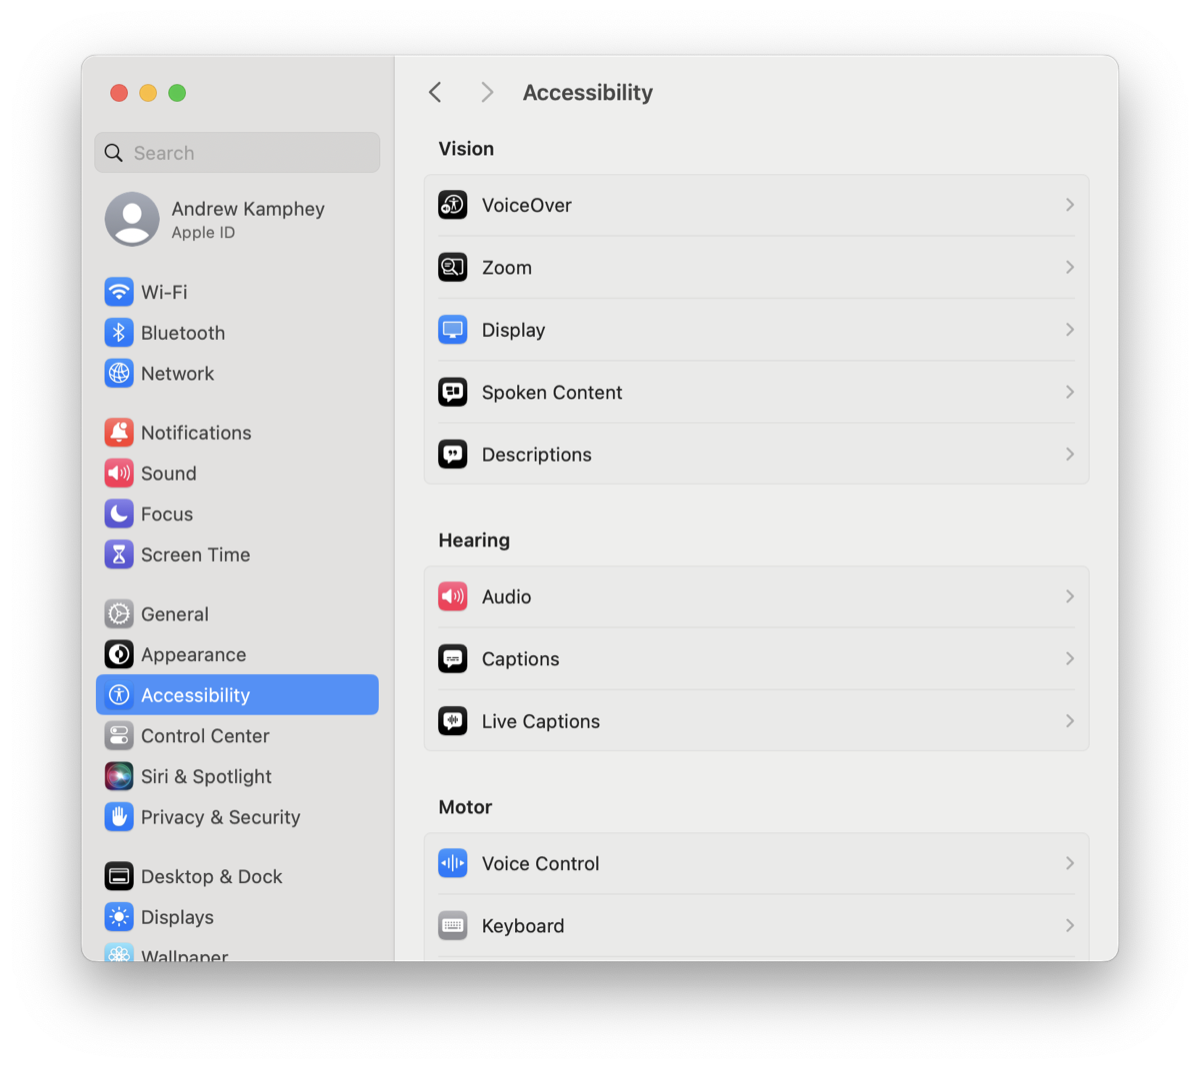
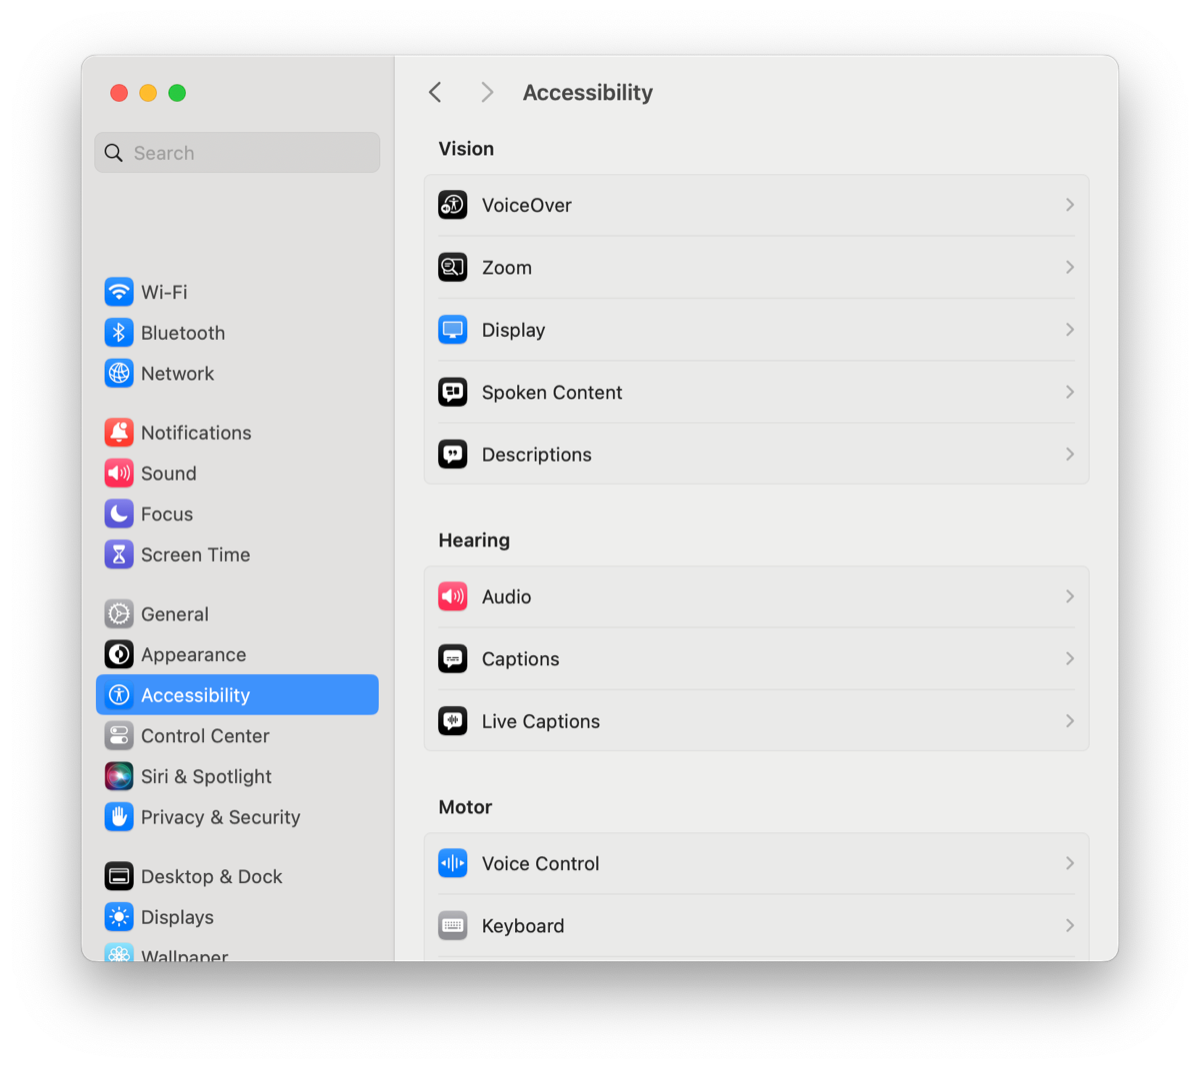
Guides: all screenshots in; remove name from captures; match Colors-window wording

diff --git a/site/guides/change-cursor-color-mac.html b/site/guides/change-cursor-color-mac.html
@@ -59,22 +59,22 @@
 <h2 id="fill">How to change the cursor fill color</h2>
 <ol class="steps">
 <li><h3>Click the Pointer fill color well</h3><p>It's the color swatch next to <b>Pointer fill color</b>.</p><figure class="shot">
-  <img src="/assets/guides/fill-well.png" alt="Pointer fill color well clicked, showing color choices" loading="lazy" onerror="this.parentNode.classList.add('missing')">
-  <div class="todo"><b>Screenshot: fill-well.png</b>The Pointer fill color well clicked, with the color choices showing.</div>
+  <img src="/assets/guides/fill-well.png" alt="The Colors window open for Pointer fill color" loading="lazy" onerror="this.parentNode.classList.add('missing')">
+  <div class="todo"><b>Screenshot: fill-well.png</b>The Pointer fill color well clicked, with the Colors window open.</div>
 </figure></li>
-<li><h3>Pick a color</h3><p>Choose a swatch, or open the full Colors window to choose any color. The pointer updates right away.</p><figure class="shot">
-  <img src="/assets/guides/fill-after.png" alt="Mac pointer with a custom fill color" loading="lazy" onerror="this.parentNode.classList.add('missing')">
-  <div class="todo"><b>Screenshot: fill-after.png</b>The pointer with a bright fill (for example yellow) over a window. Take it as a frame from a screen recording.</div>
+<li><h3>Pick a color in the Colors window</h3><p>A Colors window opens. Click a color on the wheel and drag the slider below it to set how dark it is. The pointer updates right away; close the window when you're done.</p><figure class="shot">
+  <img src="/assets/guides/fill-after.png" alt="Yellow Mac pointer next to the yellow Pointer fill color setting" loading="lazy" onerror="this.parentNode.classList.add('missing')">
+  <div class="todo"><b>Screenshot: fill-after.png</b>The pointer with a bright fill (for example yellow). Frame from a screen recording.</div>
 </figure></li>
 </ol>
 
 <h2 id="outline">How to change the cursor outline color</h2>
 <ol class="steps">
 <li><h3>Click the Pointer outline color well</h3><p>It's the swatch next to <b>Pointer outline color</b>.</p><figure class="shot">
-  <img src="/assets/guides/outline-well.png" alt="Pointer outline color well clicked, showing color choices" loading="lazy" onerror="this.parentNode.classList.add('missing')">
-  <div class="todo"><b>Screenshot: outline-well.png</b>The Pointer outline color well clicked, with the color choices showing.</div>
+  <img src="/assets/guides/outline-well.png" alt="The Colors window open for Pointer outline color, set to magenta" loading="lazy" onerror="this.parentNode.classList.add('missing')">
+  <div class="todo"><b>Screenshot: outline-well.png</b>The Pointer outline color well clicked, with the Colors window open.</div>
 </figure></li>
-<li><h3>Pick a color</h3><p>A dark outline helps on light backgrounds; a light outline helps on dark ones.</p></li>
+<li><h3>Pick a color in the Colors window</h3><p>Same window as for the fill. A dark outline helps on light backgrounds; a light outline helps on dark ones.</p></li>
 </ol>
 
 <h2 id="both">How to change both fill and outline</h2>
@@ -87,8 +87,8 @@
 <tr><td><i class="sw" style="background:#0a84ff"></i>Blue</td><td><i class="sw" style="background:#fff"></i>White</td><td>Screen recordings and tutorials</td></tr>
 </table>
 <figure class="shot">
-  <img src="/assets/guides/both-after.png" alt="Mac pointer with a yellow fill and black outline" loading="lazy" onerror="this.parentNode.classList.add('missing')">
-  <div class="todo"><b>Screenshot: both-after.png</b>The pointer with both colors changed (yellow fill, black outline) over a light window. Frame from a screen recording.</div>
+  <img src="/assets/guides/both-after.png" alt="Mac pointer with a yellow fill and magenta outline over a spreadsheet" loading="lazy" onerror="this.parentNode.classList.add('missing')">
+  <div class="todo"><b>Screenshot: both-after.png</b>The pointer with both colors changed over a light window. Frame from a screen recording.</div>
 </figure>
 
 <h2 id="exact-color">How to pick an exact color</h2>

diff --git a/site/guides/change-cursor-size-mac.html b/site/guides/change-cursor-size-mac.html
@@ -55,7 +55,7 @@
   <img src="/assets/guides/size-slider.png" alt="Pointer size slider dragged toward Large" loading="lazy" onerror="this.parentNode.classList.add('missing')">
   <div class="todo"><b>Screenshot: size-slider.png</b>Close-up of the Pointer size slider dragged about halfway toward Large.</div>
 </figure></li><li><h3>Check it</h3><p>Move the mouse around a busy window. If it still gets lost, try a brighter fill color too: see <a href="/guides/change-cursor-color-mac">how to change cursor color</a>.</p><figure class="shot">
-  <img src="/assets/guides/size-after.png" alt="A large Mac pointer over a busy window" loading="lazy" onerror="this.parentNode.classList.add('missing')">
+  <img src="/assets/guides/size-after.png" alt="A large Mac pointer over a spreadsheet" loading="lazy" onerror="this.parentNode.classList.add('missing')">
   <div class="todo"><b>Screenshot: size-after.png</b>The enlarged pointer over a busy window. Take it as a frame from a screen recording: still screenshots draw the pointer at normal size.</div>
 </figure></li></ol>
     <h2 id="older-macos">On older versions of macOS</h2>

diff --git a/scripts/build_guides.py b/scripts/build_guides.py
@@ -74,7 +74,7 @@ GUIDES = [
                   "Close-up of the Pointer size slider dragged about halfway toward Large.")),
             ("Check it",
              "<p>Move the mouse around a busy window. If it still gets lost, try a brighter fill color too: see <a href=\"/guides/change-cursor-color-mac\">how to change cursor color</a>.</p>",
-             shot("size-after", "A large Mac pointer over a busy window",
+             shot("size-after", "A large Mac pointer over a spreadsheet",
                   "The enlarged pointer over a busy window. Take it as a frame from a screen recording: still screenshots draw the pointer at normal size.")),
         ],
         "body": OLDER_MACOS + """
@@ -112,14 +112,14 @@ GUIDES = [
 
 <h2 id="fill">How to change the cursor fill color</h2>
 <ol class="steps">
-<li><h3>Click the Pointer fill color well</h3><p>It's the color swatch next to <b>Pointer fill color</b>.</p>{shot("fill-well", "Pointer fill color well clicked, showing color choices", "The Pointer fill color well clicked, with the color choices showing.")}</li>
-<li><h3>Pick a color</h3><p>Choose a swatch, or open the full Colors window to choose any color. The pointer updates right away.</p>{shot("fill-after", "Mac pointer with a custom fill color", "The pointer with a bright fill (for example yellow) over a window. Take it as a frame from a screen recording.")}</li>
+<li><h3>Click the Pointer fill color well</h3><p>It's the color swatch next to <b>Pointer fill color</b>.</p>{shot("fill-well", "The Colors window open for Pointer fill color", "The Pointer fill color well clicked, with the Colors window open.")}</li>
+<li><h3>Pick a color in the Colors window</h3><p>A Colors window opens. Click a color on the wheel and drag the slider below it to set how dark it is. The pointer updates right away; close the window when you're done.</p>{shot("fill-after", "Yellow Mac pointer next to the yellow Pointer fill color setting", "The pointer with a bright fill (for example yellow). Frame from a screen recording.")}</li>
 </ol>
 
 <h2 id="outline">How to change the cursor outline color</h2>
 <ol class="steps">
-<li><h3>Click the Pointer outline color well</h3><p>It's the swatch next to <b>Pointer outline color</b>.</p>{shot("outline-well", "Pointer outline color well clicked, showing color choices", "The Pointer outline color well clicked, with the color choices showing.")}</li>
-<li><h3>Pick a color</h3><p>A dark outline helps on light backgrounds; a light outline helps on dark ones.</p></li>
+<li><h3>Click the Pointer outline color well</h3><p>It's the swatch next to <b>Pointer outline color</b>.</p>{shot("outline-well", "The Colors window open for Pointer outline color, set to magenta", "The Pointer outline color well clicked, with the Colors window open.")}</li>
+<li><h3>Pick a color in the Colors window</h3><p>Same window as for the fill. A dark outline helps on light backgrounds; a light outline helps on dark ones.</p></li>
 </ol>
 
 <h2 id="both">How to change both fill and outline</h2>
@@ -131,7 +131,7 @@ GUIDES = [
 <tr><td><i class="sw" style="background:#ff3b30"></i>Red</td><td><i class="sw" style="background:#fff"></i>White</td><td>Presenting and projectors</td></tr>
 <tr><td><i class="sw" style="background:#0a84ff"></i>Blue</td><td><i class="sw" style="background:#fff"></i>White</td><td>Screen recordings and tutorials</td></tr>
 </table>
-{shot("both-after", "Mac pointer with a yellow fill and black outline", "The pointer with both colors changed (yellow fill, black outline) over a light window. Frame from a screen recording.")}
+{shot("both-after", "Mac pointer with a yellow fill and magenta outline over a spreadsheet", "The pointer with both colors changed over a light window. Frame from a screen recording.")}
 
 <h2 id="exact-color">How to pick an exact color</h2>
 <p>In the full Colors window, choose the sliders tab and set it to RGB. There you can type a hex code such as <code>#FF3B30</code>, handy for matching a brand color in product videos.</p>
